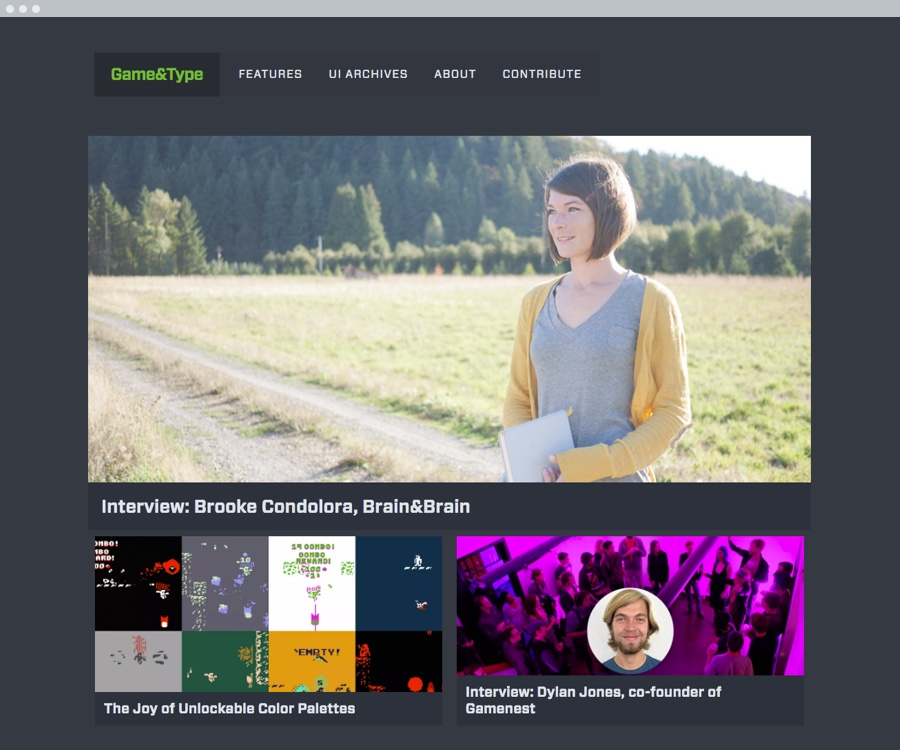
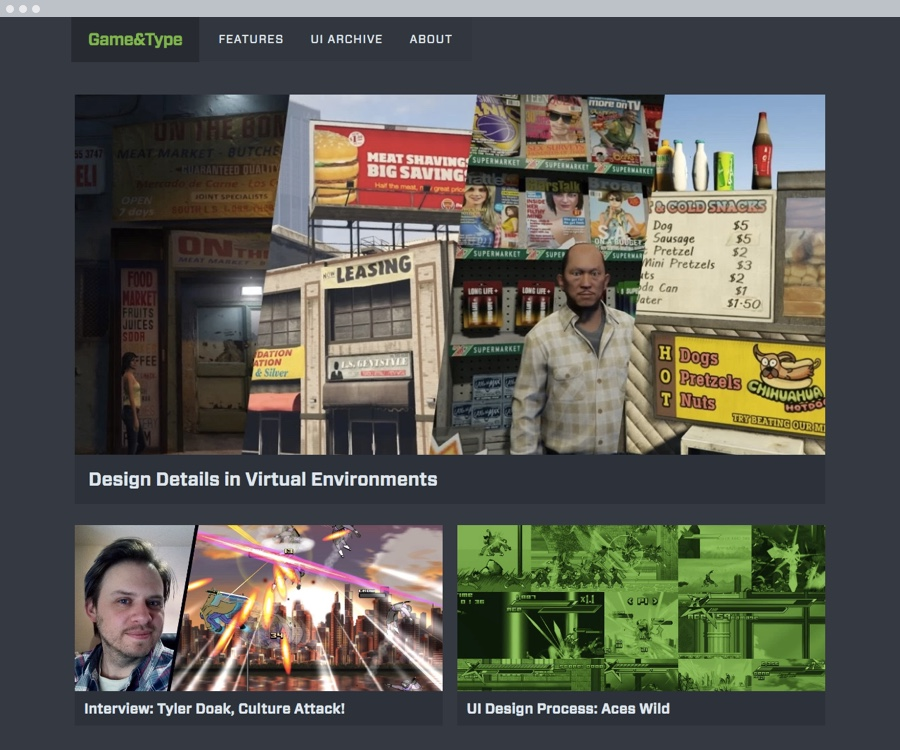
Added Butter project, new images for G&T, white bar for navigation

diff --git a/_sass/_base.scss b/_sass/_base.scss
@@ -19,7 +19,7 @@ dl, dd, ol, ul, figure {
  */
 body {
 	-webkit-text-size-adjust: 100%;
-    padding:0 30px 0 30px;
+    padding:0;
     font-family: $base-font-family;
     font-size: $base-font-size;
     line-height: $base-line-height;
@@ -184,7 +184,7 @@ a {
 
 .button{
 	display:inline-block;
-	padding:10px 15px;
+	padding:10px 15px 8px 15px;
 	color:$green-color;
 	border:2px solid $green-color;
 	font-weight: 600;

diff --git a/_sass/_layout.scss b/_sass/_layout.scss
@@ -2,14 +2,14 @@
  * Site header
  */
 .site-header {
-	width:1020px;
+	width:100%;
 	height:4.5em;
 	margin: 0 auto;
-	border-bottom:1px solid $hr-color;
+	padding:0 30px 0 30px;
+	background-color:white;
+/* 	border-bottom:1px solid $hr-color; */
 
 	@include media-query($on-palm) {
-			background-color:white;
-			width:100%;
 			padding:0 1em;
         }
         
